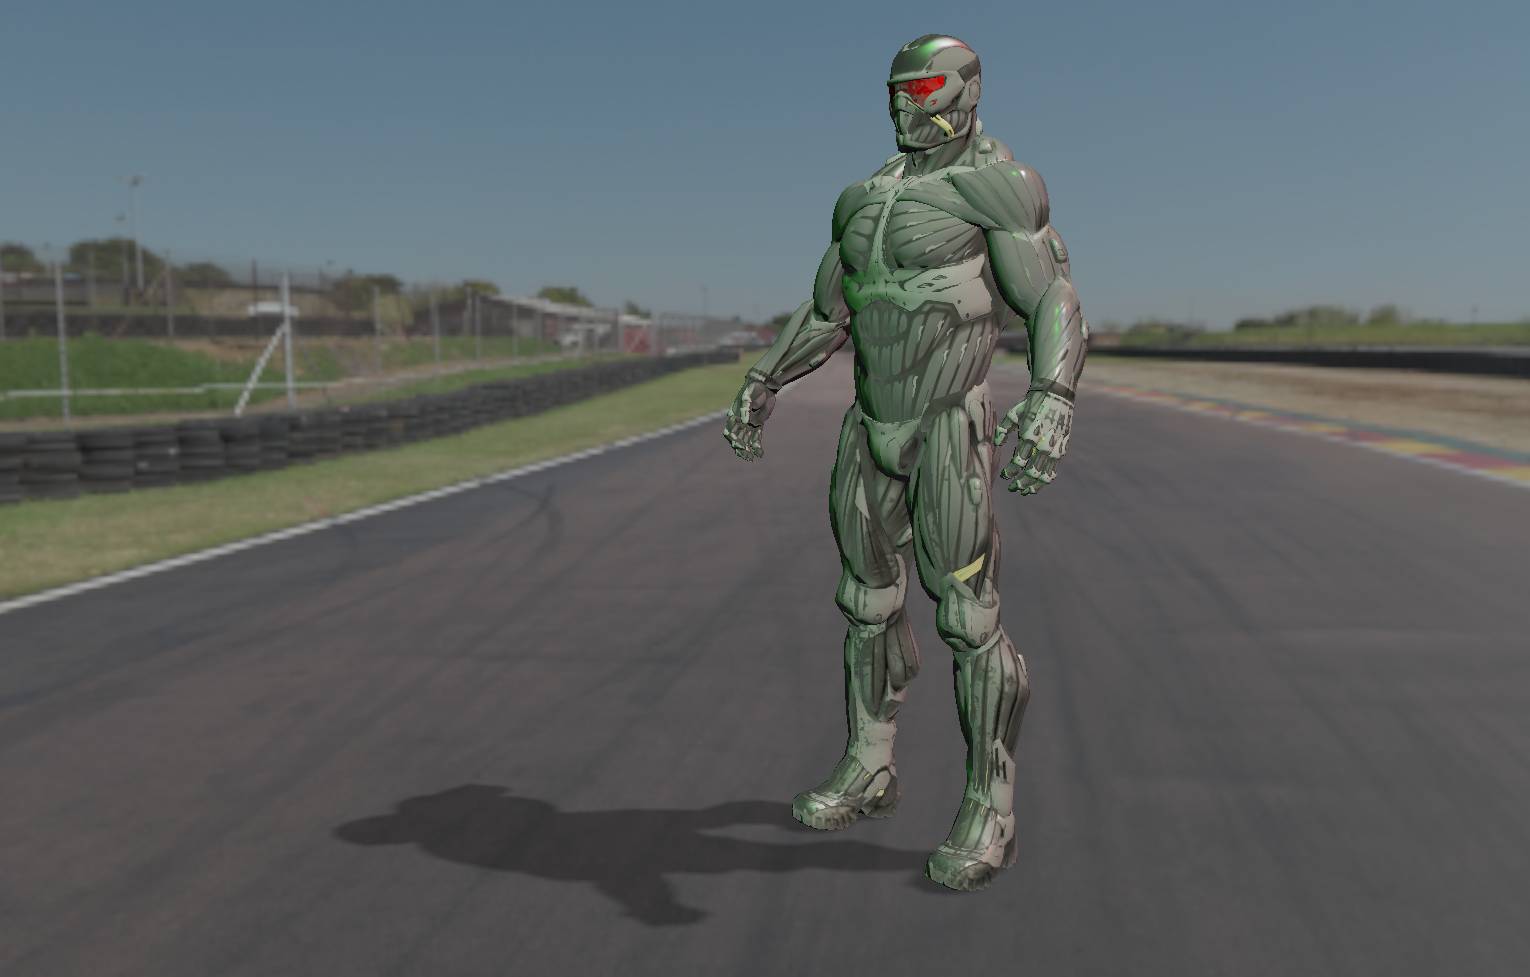
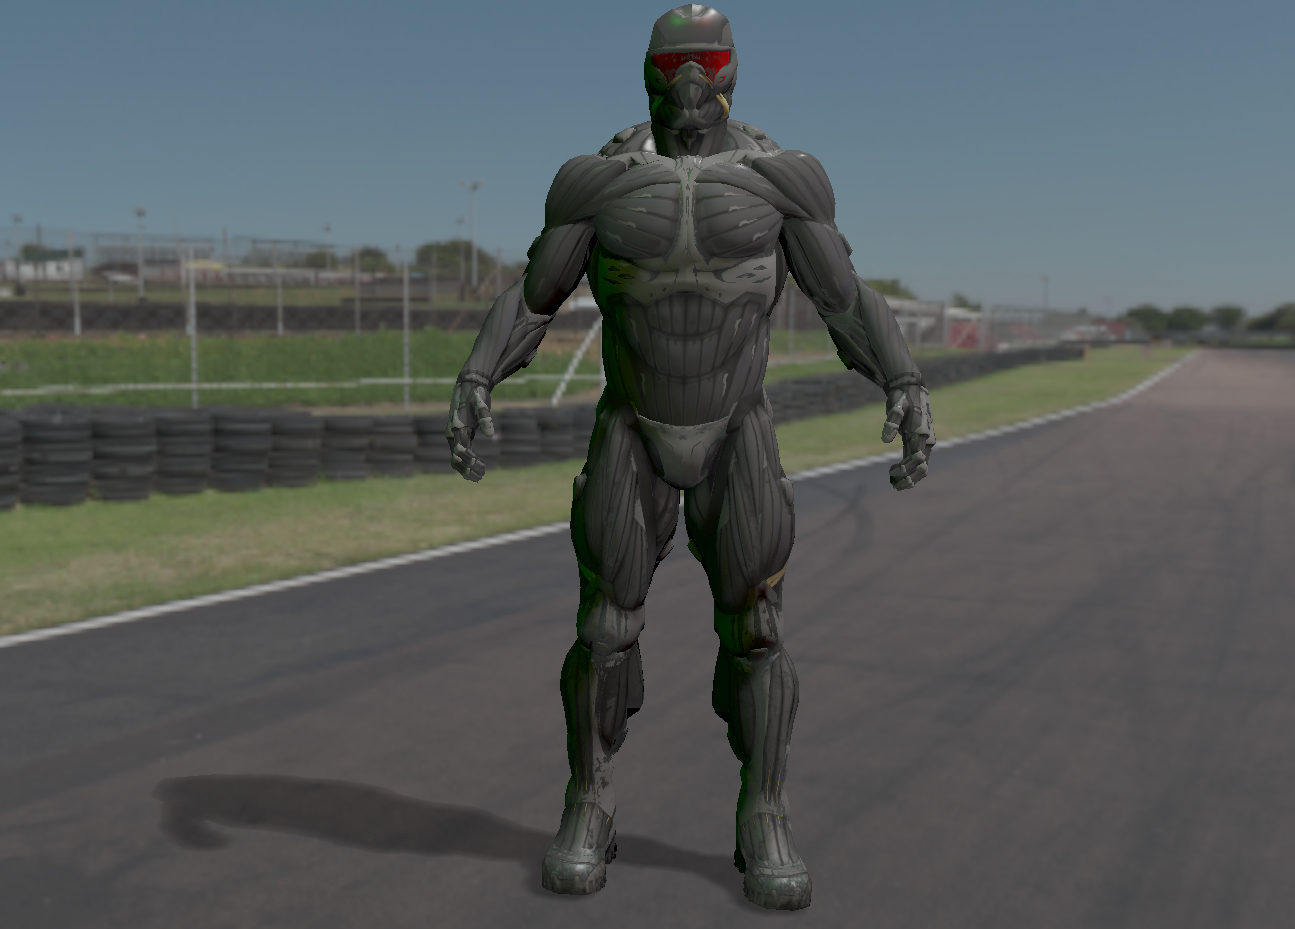
self-shadowing

Changed region(s): [[0.0, 0.0, 1.0, 0.9989], [0.1236, 0.8428, 0.2162, 0.9053]]

diff --git a/main.cpp b/main.cpp
@@ -93,17 +93,20 @@ int main()
     Model ourModel("./resources/objects/nanosuit/nanosuit.obj");
     // lights
     // ------
+    // lighting
+    //glm::vec3 lightPos(70,100,-15);
+    glm::vec3 lightPos(70.f, 100.f, 20.f);
     glm::vec3 lightPositions[] = {
         glm::vec3(10.0f, 10.0f, 13.0f),
         glm::vec3(-10.0f, 10.0f, 13.0f),
-        glm::vec3(0.0f, 10.0f, 13.0f),
-        glm::vec3(0.0f, 10.0f, 13.0f),
+        lightPos,
+        lightPos,
     };
     glm::vec3 lightColors[] = {
-        glm::vec3(900.0f,0.0f, 0.0f),
-        glm::vec3(0.0f, 900.0f, 0.0f),
-        glm::vec3(900.0f, 900.0f, 900.0f),
-        glm::vec3(900.0f, 900.0f, 900.0f)
+        glm::vec3(20.0f,0.0f, 0.0f),
+        glm::vec3(0.0f, 20.0f, 0.0f),
+        glm::vec3(9000.0f, 9000.0f, 9000.0f),
+        glm::vec3(9.0f, 9.0f, 9.0f)
     };
     int nrRows = 7;
     int nrColumns = 7;
@@ -121,9 +124,7 @@ int main()
     //shadowing
     // --------------------------------------
     
-    // lighting
-    //glm::vec3 lightPos(70,100,-15);
-    glm::vec3 lightPos(70, 100, 20);
+    
     //shadowing set
     const unsigned int SHADOW_WIDTH = 1024, SHADOW_HEIGHT = 1024;
     Shader simpleDepthShader("./shader/5.3.1.shadow_mapping_depth.vs", "./shader/5.3.1.shadow_mapping_depth.fs");
@@ -152,7 +153,7 @@ int main()
         glm::mat4 lightProjection, lightView;
         glm::mat4 lightSpaceMatrix;
         float near_plane = 100.0f, far_plane = 200.5f;
-        lightProjection = glm::ortho(-30.0f, 30.0f, -30.0f, 30.0f, near_plane, far_plane);
+        lightProjection = glm::ortho(-10.0f, 20.0f, -10.0f, 15.0f, near_plane, far_plane);
         lightView = glm::lookAt(lightPos, glm::vec3(0.0f), glm::vec3(0.0, 1.0, 0.0));
         lightSpaceMatrix = lightProjection * lightView;
         // render scene from light's point of view
@@ -160,8 +161,8 @@ int main()
         simpleDepthShader.setMat4("lightSpaceMatrix", lightSpaceMatrix);
         glm::mat4 model = glm::mat4(1.0f);
         //model = glm::scale(model, glm::vec3(3.0, 3.0, 3.0));
-        model = glm::translate(model, glm::vec3(10.0, 0.0, -10.0));
-        model = glm::rotate(model, -20.f, glm::vec3(0.0f, 1.0f, 0.0f));
+        model = glm::translate(model, glm::vec3(0.0, 0.0, -10.0));
+        model = glm::rotate(model, glm::radians(-0.f), glm::vec3(0.0f, 1.0f, 0.0f));
         simpleDepthShader.setMat4("model", model);
         glViewport(0, 0, SHADOW_WIDTH, SHADOW_HEIGHT);
         glBindFramebuffer(GL_FRAMEBUFFER, depthMapFBO);
